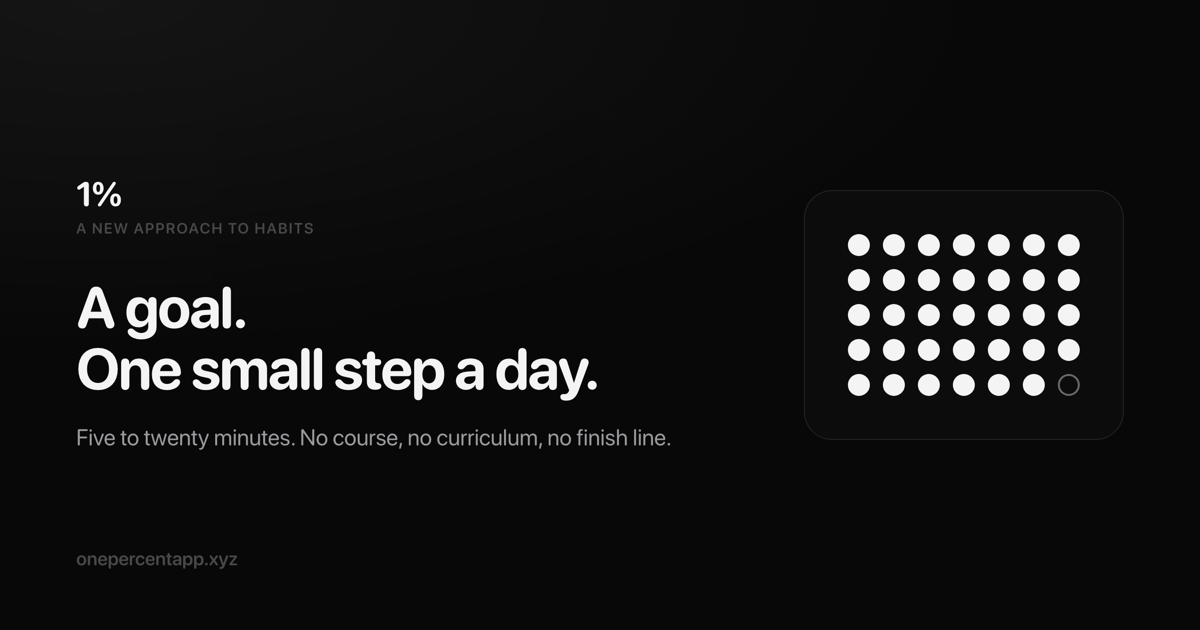
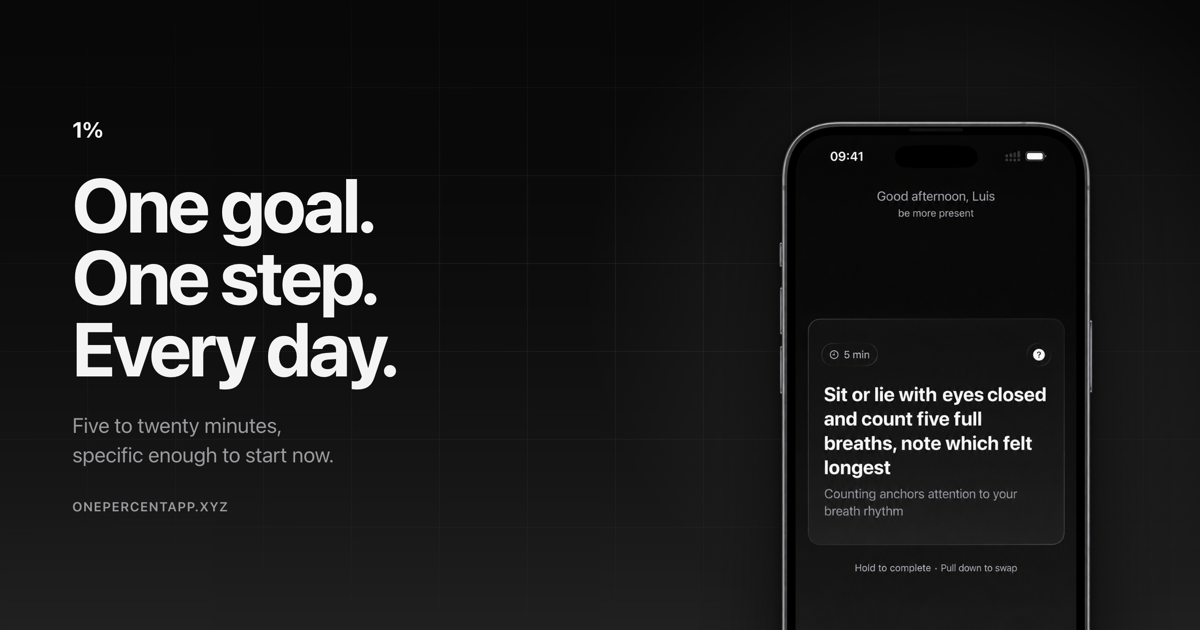
Update

diff --git a/index.html b/index.html
@@ -17,13 +17,13 @@
 <meta property="og:image" content="https://onepercentapp.xyz/og.png">
 <meta property="og:image:width" content="1200">
 <meta property="og:image:height" content="630">
-<meta property="og:image:alt" content="The 1% cover: the words “A goal. One small step a day.” beside a grid of thirty-five dots, thirty-four filled in and the last one an open outline.">
+<meta property="og:image:alt" content="The 1% cover: the words “One goal. One step. Every day.” beside an iPhone showing the app’s Today screen with one step on it.">
 
 <meta name="twitter:card" content="summary_large_image">
 <meta name="twitter:title" content="1% — one goal, one small step a day">
 <meta name="twitter:description" content="1% is an iPhone app that gives you one small step toward your goal each day. Five to twenty minutes. No course, no curriculum, no finish line.">
 <meta name="twitter:image" content="https://onepercentapp.xyz/og.png">
-<meta name="twitter:image:alt" content="The 1% cover: the words “A goal. One small step a day.” beside a grid of thirty-five dots, thirty-four filled in and the last one an open outline.">
+<meta name="twitter:image:alt" content="The 1% cover: the words “One goal. One step. Every day.” beside an iPhone showing the app’s Today screen with one step on it.">
 
 <meta name="theme-color" content="#F5F5F4" media="(prefers-color-scheme: light)">
 <meta name="theme-color" content="#0C0C0D" media="(prefers-color-scheme: dark)">

diff --git a/delete-account.html b/delete-account.html
@@ -17,13 +17,13 @@
 <meta property="og:image" content="https://onepercentapp.xyz/og.png">
 <meta property="og:image:width" content="1200">
 <meta property="og:image:height" content="630">
-<meta property="og:image:alt" content="The 1% cover: the words “A goal. One small step a day.” beside a grid of thirty-five dots, thirty-four filled in and the last one an open outline.">
+<meta property="og:image:alt" content="The 1% cover: the words “One goal. One step. Every day.” beside an iPhone showing the app’s Today screen with one step on it.">
 
 <meta name="twitter:card" content="summary_large_image">
 <meta name="twitter:title" content="Delete your account — 1%">
 <meta name="twitter:description" content="How to delete your 1% account and data: the in-app route, exactly what is removed, and the email fallback if you cannot open the app.">
 <meta name="twitter:image" content="https://onepercentapp.xyz/og.png">
-<meta name="twitter:image:alt" content="The 1% cover: the words “A goal. One small step a day.” beside a grid of thirty-five dots, thirty-four filled in and the last one an open outline.">
+<meta name="twitter:image:alt" content="The 1% cover: the words “One goal. One step. Every day.” beside an iPhone showing the app’s Today screen with one step on it.">
 
 <meta name="theme-color" content="#F5F5F4" media="(prefers-color-scheme: light)">
 <meta name="theme-color" content="#0C0C0D" media="(prefers-color-scheme: dark)">

diff --git a/support.html b/support.html
@@ -17,13 +17,13 @@
 <meta property="og:image" content="https://onepercentapp.xyz/og.png">
 <meta property="og:image:width" content="1200">
 <meta property="og:image:height" content="630">
-<meta property="og:image:alt" content="The 1% cover: the words “A goal. One small step a day.” beside a grid of thirty-five dots, thirty-four filled in and the last one an open outline.">
+<meta property="og:image:alt" content="The 1% cover: the words “One goal. One step. Every day.” beside an iPhone showing the app’s Today screen with one step on it.">
 
 <meta name="twitter:card" content="summary_large_image">
 <meta name="twitter:title" content="Support — 1%">
 <meta name="twitter:description" content="Get in touch about 1%, and step-by-step answers for cancelling a subscription, restoring a purchase, and deleting your account and data.">
 <meta name="twitter:image" content="https://onepercentapp.xyz/og.png">
-<meta name="twitter:image:alt" content="The 1% cover: the words “A goal. One small step a day.” beside a grid of thirty-five dots, thirty-four filled in and the last one an open outline.">
+<meta name="twitter:image:alt" content="The 1% cover: the words “One goal. One step. Every day.” beside an iPhone showing the app’s Today screen with one step on it.">
 
 <meta name="theme-color" content="#F5F5F4" media="(prefers-color-scheme: light)">
 <meta name="theme-color" content="#0C0C0D" media="(prefers-color-scheme: dark)">

diff --git a/about.html b/about.html
@@ -17,13 +17,13 @@
 <meta property="og:image" content="https://onepercentapp.xyz/og.png">
 <meta property="og:image:width" content="1200">
 <meta property="og:image:height" content="630">
-<meta property="og:image:alt" content="The 1% cover: the words “A goal. One small step a day.” beside a grid of thirty-five dots, thirty-four filled in and the last one an open outline.">
+<meta property="og:image:alt" content="The 1% cover: the words “One goal. One step. Every day.” beside an iPhone showing the app’s Today screen with one step on it.">
 
 <meta name="twitter:card" content="summary_large_image">
 <meta name="twitter:title" content="About — 1%">
 <meta name="twitter:description" content="How 1% works: one goal, one step a day, written for what you wrote. What the steps are, what happens if you miss a day, what it costs.">
 <meta name="twitter:image" content="https://onepercentapp.xyz/og.png">
-<meta name="twitter:image:alt" content="The 1% cover: the words “A goal. One small step a day.” beside a grid of thirty-five dots, thirty-four filled in and the last one an open outline.">
+<meta name="twitter:image:alt" content="The 1% cover: the words “One goal. One step. Every day.” beside an iPhone showing the app’s Today screen with one step on it.">
 
 <meta name="theme-color" content="#F5F5F4" media="(prefers-color-scheme: light)">
 <meta name="theme-color" content="#0C0C0D" media="(prefers-color-scheme: dark)">

diff --git a/terms.html b/terms.html
@@ -17,13 +17,13 @@
 <meta property="og:image" content="https://onepercentapp.xyz/og.png">
 <meta property="og:image:width" content="1200">
 <meta property="og:image:height" content="630">
-<meta property="og:image:alt" content="The 1% cover: the words “A goal. One small step a day.” beside a grid of thirty-five dots, thirty-four filled in and the last one an open outline.">
+<meta property="og:image:alt" content="The 1% cover: the words “One goal. One step. Every day.” beside an iPhone showing the app’s Today screen with one step on it.">
 
 <meta name="twitter:card" content="summary_large_image">
 <meta name="twitter:title" content="Terms of use — 1%">
 <meta name="twitter:description" content="The terms for using 1%: Apple's standard licence, how the subscription renews, how to cancel, and who is responsible for what.">
 <meta name="twitter:image" content="https://onepercentapp.xyz/og.png">
-<meta name="twitter:image:alt" content="The 1% cover: the words “A goal. One small step a day.” beside a grid of thirty-five dots, thirty-four filled in and the last one an open outline.">
+<meta name="twitter:image:alt" content="The 1% cover: the words “One goal. One step. Every day.” beside an iPhone showing the app’s Today screen with one step on it.">
 
 <meta name="theme-color" content="#F5F5F4" media="(prefers-color-scheme: light)">
 <meta name="theme-color" content="#0C0C0D" media="(prefers-color-scheme: dark)">

diff --git a/imprint.html b/imprint.html
@@ -17,13 +17,13 @@
 <meta property="og:image" content="https://onepercentapp.xyz/og.png">
 <meta property="og:image:width" content="1200">
 <meta property="og:image:height" content="630">
-<meta property="og:image:alt" content="The 1% cover: the words “A goal. One small step a day.” beside a grid of thirty-five dots, thirty-four filled in and the last one an open outline.">
+<meta property="og:image:alt" content="The 1% cover: the words “One goal. One step. Every day.” beside an iPhone showing the app’s Today screen with one step on it.">
 
 <meta name="twitter:card" content="summary_large_image">
 <meta name="twitter:title" content="Imprint — 1%">
 <meta name="twitter:description" content="Impressum for 1%: operator, postal address, contact details and the person responsible for the content, as required by § 5 DDG.">
 <meta name="twitter:image" content="https://onepercentapp.xyz/og.png">
-<meta name="twitter:image:alt" content="The 1% cover: the words “A goal. One small step a day.” beside a grid of thirty-five dots, thirty-four filled in and the last one an open outline.">
+<meta name="twitter:image:alt" content="The 1% cover: the words “One goal. One step. Every day.” beside an iPhone showing the app’s Today screen with one step on it.">
 
 <meta name="theme-color" content="#F5F5F4" media="(prefers-color-scheme: light)">
 <meta name="theme-color" content="#0C0C0D" media="(prefers-color-scheme: dark)">

diff --git a/privacy.html b/privacy.html
@@ -17,13 +17,13 @@
 <meta property="og:image" content="https://onepercentapp.xyz/og.png">
 <meta property="og:image:width" content="1200">
 <meta property="og:image:height" content="630">
-<meta property="og:image:alt" content="The 1% cover: the words “A goal. One small step a day.” beside a grid of thirty-five dots, thirty-four filled in and the last one an open outline.">
+<meta property="og:image:alt" content="The 1% cover: the words “One goal. One step. Every day.” beside an iPhone showing the app’s Today screen with one step on it.">
 
 <meta name="twitter:card" content="summary_large_image">
 <meta name="twitter:title" content="Privacy — 1%">
 <meta name="twitter:description" content="What 1% stores on your device, what leaves it and when, who processes it, and what you can ask us to do with it.">
 <meta name="twitter:image" content="https://onepercentapp.xyz/og.png">
-<meta name="twitter:image:alt" content="The 1% cover: the words “A goal. One small step a day.” beside a grid of thirty-five dots, thirty-four filled in and the last one an open outline.">
+<meta name="twitter:image:alt" content="The 1% cover: the words “One goal. One step. Every day.” beside an iPhone showing the app’s Today screen with one step on it.">
 
 <meta name="theme-color" content="#F5F5F4" media="(prefers-color-scheme: light)">
 <meta name="theme-color" content="#0C0C0D" media="(prefers-color-scheme: dark)">
